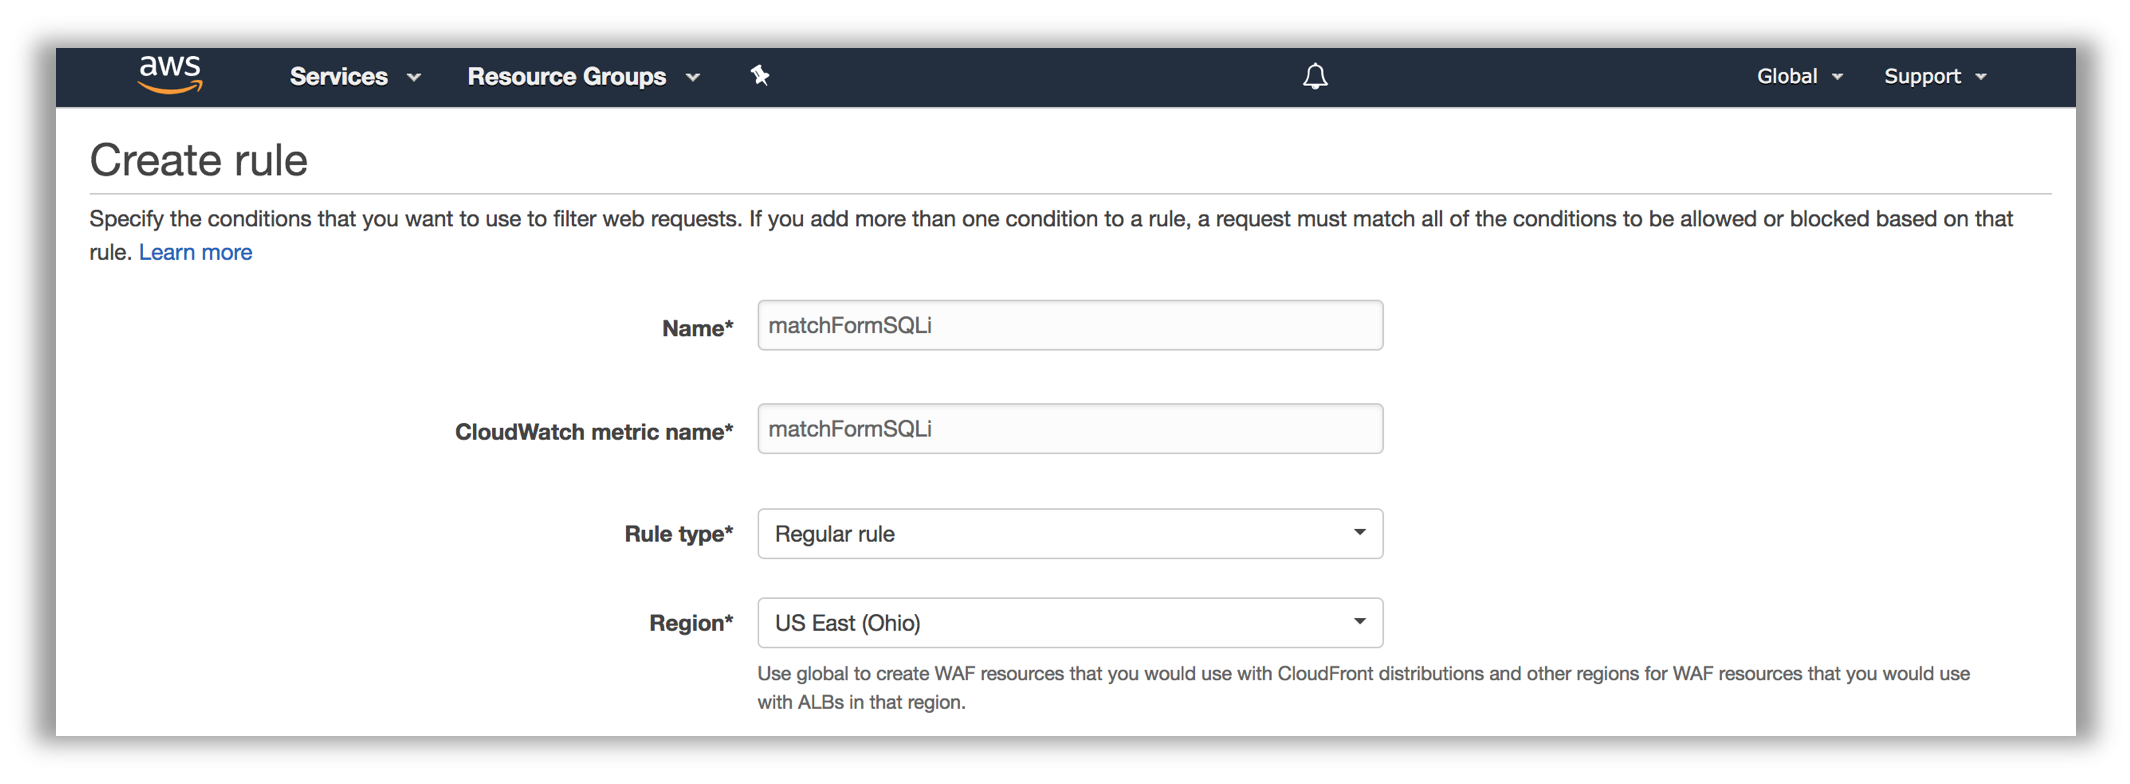
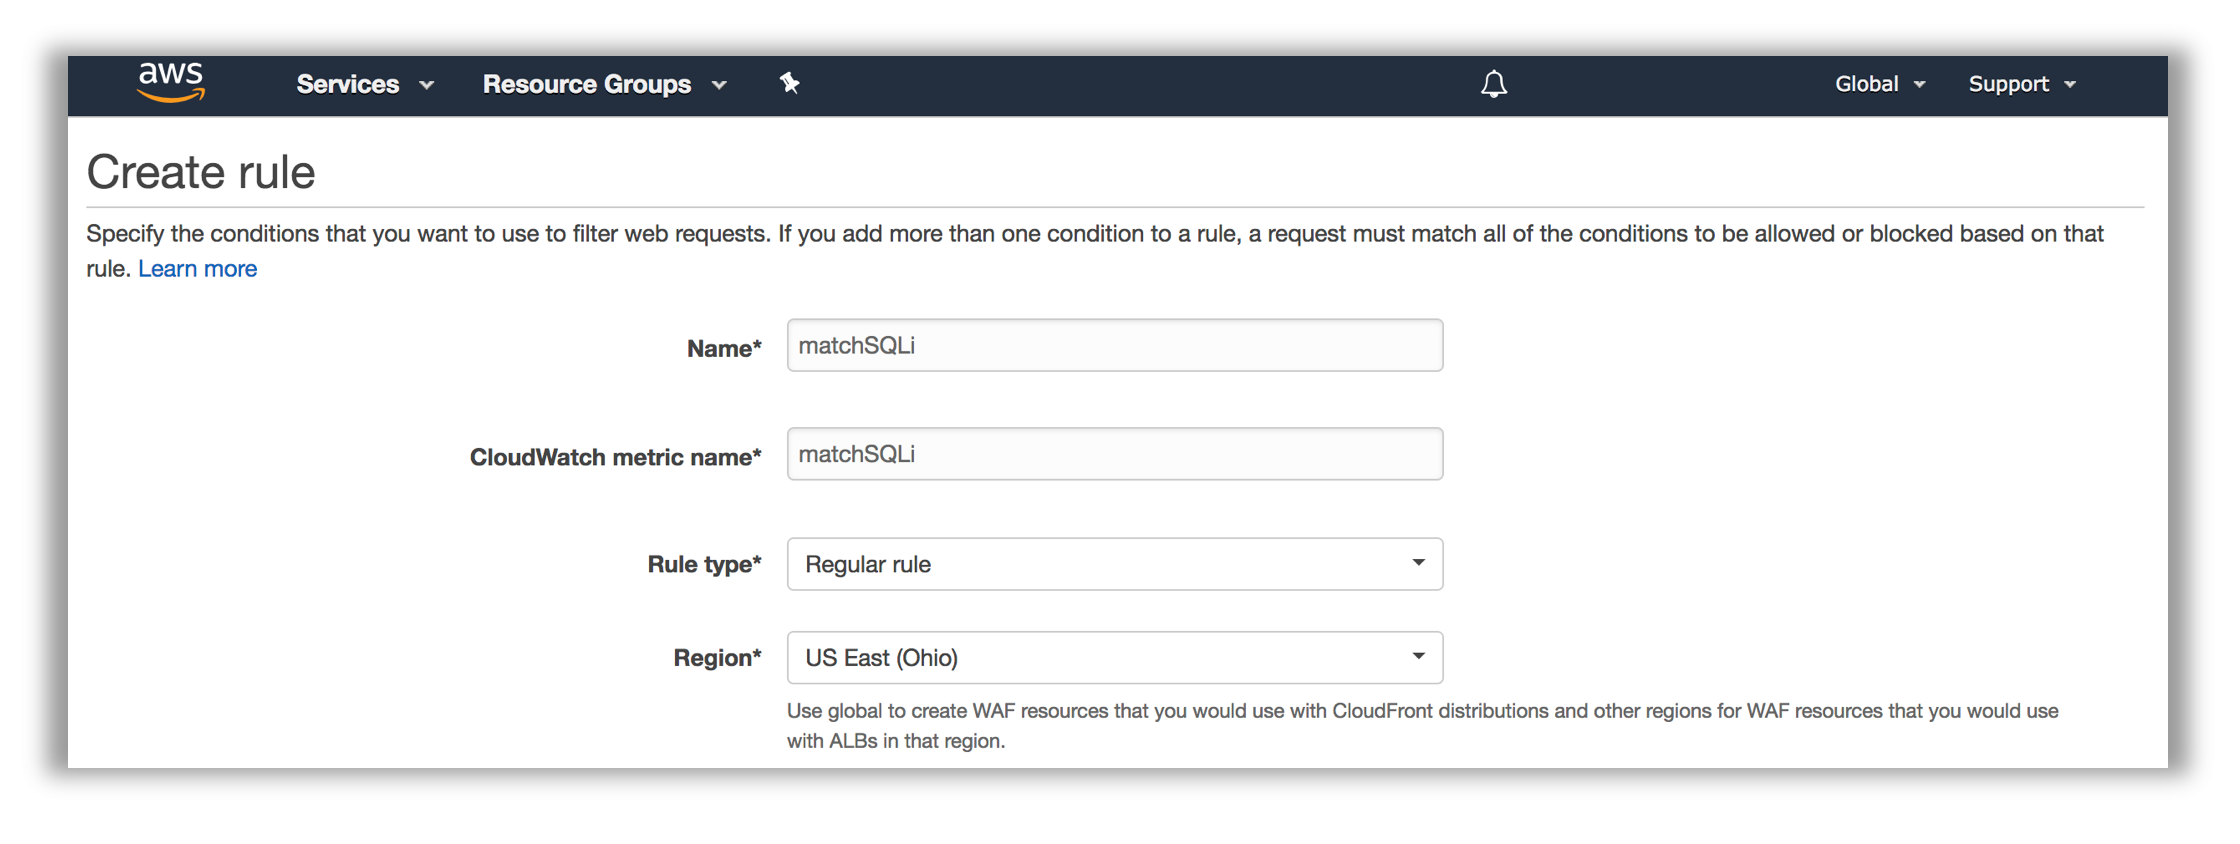
Clarify remediate doc

diff --git a/docs/perimeter-layer/remediate.md b/docs/perimeter-layer/remediate.md
@@ -4,9 +4,9 @@ In the previous Build Phase, you identified several vulnerabilities in your web 
 You are now going to design and implement an AWS WAF ruleset to help mitigate these vulnerabilities. In this section you will do the following tasks:
 
 1. Identify the WAF ACL for your site
-2. AWS WAF rule design and considerations
-3. Rule creation walkthrough
-4. Mitigating Common Vulnerabilities & Monitoring for Attacks
+2. AWS WAF Rule design and considerations
+3. Console Walkthrough - Creating a WAF Condition and Rule
+4. WAF Rule Creation and Solutions
 
 ## Identify the WAF ACL for your Site
 
@@ -40,7 +40,7 @@ Rules contain one or more conditions. Each condition attached to a rule is calle
 Web ACLs are ordered lists of rules. They are evaluated in order for each HTTP request and the action of the first matching rule is taken by the WAF engine, whether that is to allow, block or count the request. If no rule matches, the default action of the web ACL prevails. Multiple web ACLs can reuse the same rules, and multiple rules can reuse the same conditions assuming that is desirable from a change management process point of view for your workloads. This creates effectively a dependency tree between these AWS WAF components.
 
 !!! info "Note About This Section"
-    **This section is a sample walkthrough to illistrate the process of creating WAF conditions and rules.** To begin building your WAF ACL for this round, go to the <a href="./#perimeter-layer-round-rule-creation-and-solutions" target="_blank">Perimeter Layer Round - Rule Creation and Solutions</a> section.
+    **In order to illustrate the process of creating WAF conditions and rules, we will walk through the creation of the first rule in your WAF ACL.** The complete list of threats and solutions is available in the <a href="./#waf-rule-creation-and-solutions">WAF Rule Creation and Solutions</a> section.
 
 
 ###Rule Design Considerations:
@@ -54,84 +54,73 @@ To create a rule, you have to create the relevant match conditions first. This p
 5.	What conditions do you need to create to implement the logic?
 6.	Are any transformations relevant to my input content type?
 
-For example, we want to build a rule to detect and block SQL Injection in received form input requests. Let’s see how these questions help us plan the implementation of the rule. _This is a sample rule that will not be used in the workshop. It's purpose is to help you better understand the rule creation process._
+For example, we want to build a rule to detect and block SQL Injection in received in query strings. Let’s see how these questions help us plan the implementation of the rule. _This walkthrough will get you started with the ruleset required to mitigate the simulated threats in the workshop. It's purpose is to help you better understand the rule creation process. You will create the remaining rules from solution hints provided below._
 
 ###Example Rule Design and Creation:
 
 ####Sample Rule purpose:
 
-- **Detect SQL Injection in form input HTTP requests, use ‘block’ action in Web ACL**
+- **Detect SQL Injection in query string, use ‘block’ action in Web ACL**
 
 ####HTTP request components:
 
-- **Request Method** – form input typically gets submitted using a POST HTTP request method
-- **Request Body** – form input is typically encoded in the body of the HTTP request 
+- **Request Method** – form input typically gets submitted using a GET HTTP request method
+- **Query String** – the SQL injection attempt is located in the query string 
 
 ####Define the purpose of the rule using Boolean logic:
 
-- If **Request Method = POST** and **Request Body contains suspected SQL Injection** then **block**
+- If **Query String contains suspected SQL Injection** then **block**
 
 ####Sample Rule - Conditions to implement:
 
-- **String Match Condition** targeting the request **METHOD** field, expecting the exact value **POST**
-- **SQL Injection Match Condition** targeting the request **BODY** field
+- **SQL injection Match Condition** targeting the request **Query string**
 
 ####Relevant transformations:
 
-- **SQL Injection Match Condition** form input is sometimes HTML encoded, so it’s a good idea to apply the **HTML_DECODE** transformation. Other transformations might also apply, such as **URL_DECODE**
+- **SQL Injection Match Condition** query strinb is URL encoded, so we will apply the **URL_DECODE** transformation.
 
 ####Rules to implement:
 
-- Rule with 2 predicates matching both the string matching condition and SQL injection condition
+- Rule with 1 predicate matching SQL injection condition
 
-##Console Walkthrough Example - Creating a Condition and Rule
+##Console Walkthrough - Creating a Condition and Rule
 
-!!! info "Note About This Section"
-    **This section is a sample walkthrough to illistrate the process of creating WAF conditions and rules.** To begin building your WAF ACL for this round, go to the <a href="./#perimeter-layer-round-rule-creation-and-solutions" target="_blank">Perimeter Layer Round - Rule Creation and Solutions</a> section.
-
-1. In the AWS WAF console, create a string match condition by selecting **String and regex** matching from the side-bar menu to the left of the console, under the **Conditions** heading.
+1. In the AWS WAF console, create a SQL injection condition by selecting **SQL injection** matching from the side-bar menu to the left of the console, under the **Conditions** heading.
 
 2.	Click on **Create Condition**:
 
 ![WAF Condition Home](./images/waf-condition-home.png)
-3.	Provide the name and region. Set the **type** to **String match**.
+3.	Provide **filterSQLi** for the **Name** and select the region where you deployed the stack. Add a filter (pattern) to the condition. Set the **Part of the request to filter on** to **Query string** and set the **Transformation** to **URL decode**. Click **Add filter**.
 
-![Create String Match](./images/create-string-match.png)
-4.	Add a filter (pattern) to the condition. Set the **Part of the request to filter on** to **HTTP method**, the **match type** to **Exactly matches**, the transformation to **None** and the value to match as **POST**. Click **Add filter**.
+![Create String Match](./images/create-sqli-match.png)
+4. With the condition created, and any additional conditions created based on need as well, you are ready to create a rule. In the AWS WAF console, select **Rules** from the side-bar menu to the left of the console, under the **AWS WAF** heading.
 
-![Filter Settings](./images/filter-settings.png)
-5.	You can add multiple filters to the string match condition. Once you are confident the list is complete, click **Create** at the bottom of the screen.
-
-6\. With the condition created, and any additional conditions created based on need as well, you are ready to create a rule. In the AWS WAF console, select **Rules** from the side-bar menu to the left of the console, under the **AWS WAF** heading.
-
-7\.	Click on **Create Rule**:
+5\.	Click on **Create Rule**:
 
 ![Create Rule](./images/waf-rules-home.png)
-8.	Provide the name, metric name and region. Set the **rule type** to **Regular rule**.
+6.	Provide **matchSQLi** for the name, metric name and sect the region where you deployed the stack. Set the **rule type** to **Regular rule**.
 
 ![Create Rule Detail](./images/create-rule-detail.png)
-9.	Add a condition to the rule. For our rule example, choose “When a request” **does** (no negation) **match at least one of the filters in the string match condition**. Choose the string match condition you have previously created.
+7.	Add a condition to the rule. For our rule example, choose “When a request” **does** (no negation) **match at least one of the filters in the SQL injection match condition**. Choose the SQL injection condition you have previously created.
 
 ![Add Conditions](./images/add-conditions.png)
-10.	Click **Add Condition** and repeat step 9 for any additional conditions you wish to add.
+8.	Click **Add Condition** and click **Create** at the bottom of the screen.
 
-11\. Click **Create** at the bottom of the screen when you have added all relevant conditions.
+9\. Follow the steps in the “Identify the WAF ACL for your site” section above to go back to the Rules tab of your web ACL.
 
-12\. Follow the steps in the “Identify the WAF ACL for your site” section above to go back to the Rules tab of your web ACL.
-
-13\.	Click **Edit web ACL**.
+10\.	Click **Edit web ACL**.
 ![Edit Web ACL](./images/edit-web-acl.png)
 
-14\. In the **Rules** dropdown, select your rule, and click **Add rule to web ACL**.
+11\. In the **Rules** dropdown, select your rule, and click **Add rule to web ACL**.
 
-15\. Reorder the rules as appropriate for your use case.
+12\. Reorder the rules as appropriate for your use case.
 
-16\. Click **Update** to persist the changes.
+13\. Click **Update** to persist the changes.
 
 !!! info "Additional Resources"
     For a more comprehensive discussion of common vulnerabilities for web applications, as well as how to mitigate them using AWS WAF, and other AWS services, please refer to the <a href="https://d0.awsstatic.com/whitepapers/Security/aws-waf-owasp.pdf" target="_blank">Use AWS WAF to Mitigate OWASP’s Top 10 Web Application Vulnerabilities whitepaper</a>.
 
-## Perimeter Layer Round - Rule Creation and Solutions
+## WAF Rule Creation and Solutions
 
 In this phase, we will have a set of 6 exercises walking you through the process of building a basic mitigation rule set for common vulnerabilities. We will build these rules from scratch, so you can gain familiarity with the AWS WAF programming model and you can then write rules specific to your applications. 
 
@@ -150,25 +139,26 @@ Consider the following:
 How do the requirements derived from the above questions affect your solution?
 
 ??? info "Solution"
-    1.	create SQLi condition named filterSQLi
-        1. query_string, url decode
+    1.	update the SQLi condition named filterSQLi with 2 additional filters
+        1. <s>query_string, url decode</s>
         2. body, html decode
         3. header, cookie, url decode
     2.  create SQLi rule named matchSQLi
     	1. type regular
         2. does match SQLi condition: filterSQLi
-    3.	create XSS condition named filterXSS
+    3.	create XSS condition named filterXSS with 4 filters
         1. query_string, url decode
         2. body, html decode
         3. body, url decode
         4. header, cookie, url decode
-    4.	create string match condition named filterXSSPathException
+    4.	create string match condition named filterXSSPathException with 1 filter
 	    1. uri, starts with, no transform, _/reportBuilder/Editor.aspx_
     5.	create XSS rule named matchXSS
         1. type regular
         2. does match XSS condition: filterXSS
         3. does not match string match condition: filterXSSPathException
     6.	add rules to Web ACL
+    7.  Re-run the WAF test script (scanner.py) from your red team host to confirm requests are blocked
 
 ### 2. Limit Attack Footprint
 
@@ -182,15 +172,16 @@ Consider the following:
 You should consider blocking access to such elements, or limiting access to known sources, either whitelisted IP addresses or geographic locations.
 
 ??? info "Solution"
-    1.	create geo conditon named filterAffiliates
+    1.	create geo conditon named filterAffiliates with 1 filter
         1.	add country US, and RO
-    2.	create string match condition named filterAdminUI
+    2.	create string match condition named filterAdminUI with 1 filter
         1.	uri, starts with, no transform, _/admin_
     3.	create rule named matchAdminNotAffiliate
         1.	type regular
         2.	does match string condition: filterAdminUI
         3.	does not match geo condition: filterAffiliates
     4.	add rule to Web ACL
+    5.  Re-run the WAF test script (scanner.py) from your red team host to confirm requests are blocked
 
 
 
@@ -205,11 +196,11 @@ Consider the following:
 Build rules that ensure the requests your application ends up processing are valid, conforming and valuable.
 
 ??? info "Solution"
-    1.	create string match condition named filterFormProcessor
+    1.	create string match condition named filterFormProcessor with 1 filter
         1.	uri, starts with, no transform, _/form.php_
-    2.	create string match condition named filterPOSTMethod
+    2.	create string match condition named filterPOSTMethod with 1 filter
         1.	uri, exactly matches, no transform, _/form.php_
-    3.	create regex match condition named filterCSRFToken
+    3.	create regex match condition named filterCSRFToken with 1 filter
         1.	header x-csrf-token, url decode, matches pattern: _^[0-9a-f]{40}$_
     4.	create rule named matchCSRF
         1.	type regular
@@ -217,6 +208,7 @@ Build rules that ensure the requests your application ends up processing are val
         3.	does match string condition: filterPOSTMethod
         4.	does not match regex match condition: filterCSRFToken
     5.	add rules to Web ACL
+    6.  Re-run the WAF test script (scanner.py) from your red team host to confirm requests are blocked
 
 ### 4. Mitigate File Inclusion & Path Traversal
 
@@ -232,7 +224,7 @@ Consider the following:
 Build rules that ensure the relevant HTTP request components used for input into paths do not contain known path traversal patterns.
 
 ??? info "Solution"
-    1.	create string match condition named filterTraversal
+    1.	create string match condition named filterTraversal with 3 filters
         1. uri, starts with, url_decode, _/include_
         2. query_string, contains, url_decode, _../_
         3. query_string, contains, url_decode, _://_
@@ -240,8 +232,9 @@ Build rules that ensure the relevant HTTP request components used for input into
         1. type regular
         2. does match string condition: filterTraversal
     3.	add rules to Web ACL
+    4.  Re-run the WAF test script (scanner.py) from your red team host to confirm requests are blocked
 
-### 5. Detect & Mitigate Anomalies
+### 5. Detect & Mitigate Anomalies (Optional)
 
 What constitutes an anomaly in regards to your web application? A few common anomaly patterns are:
 
@@ -254,7 +247,7 @@ What constitutes an anomaly in regards to your web application? A few common ano
 Do you have mechanisms in place to detect such patterns? If so, can you build rules to mitigate them?
 
 ??? info "Solution"
-    1.	create string match condition named filterLoginProcessor
+    1.	create string match condition named filterLoginProcessor with 1 filter
         1.	uri, starts with, no transform, _/login.php_
     2.	create rule named matchRateLogin
         1.	type rate-based, 2000

diff --git a/docs/perimeter-layer/cleanup.md b/docs/perimeter-layer/cleanup.md
@@ -9,5 +9,6 @@
 If you are not moving on to the next round, follow the steps below to clean up the artifacts that were created.
 
 1. Go to the CloudFormation console and delete the stack that you created.
+2. Go to the WAF console and remove the conditions from the rules that you created
 2. Go to the WAF console and delete the conditions you created.
 3. Go to the WAF console and delete the rules you created.
